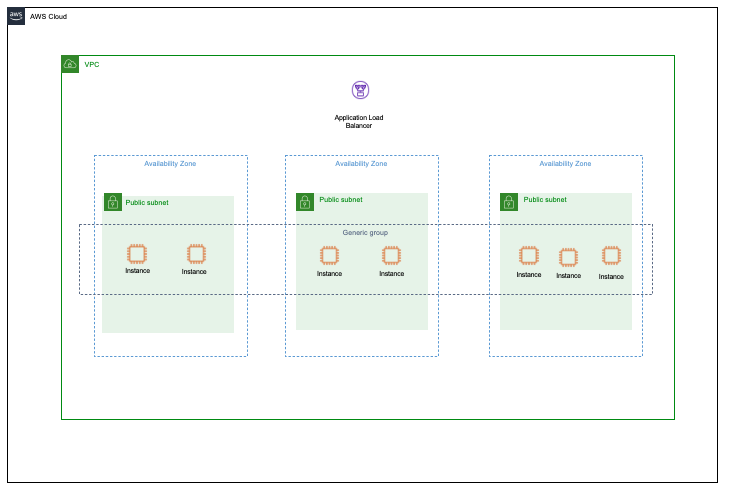
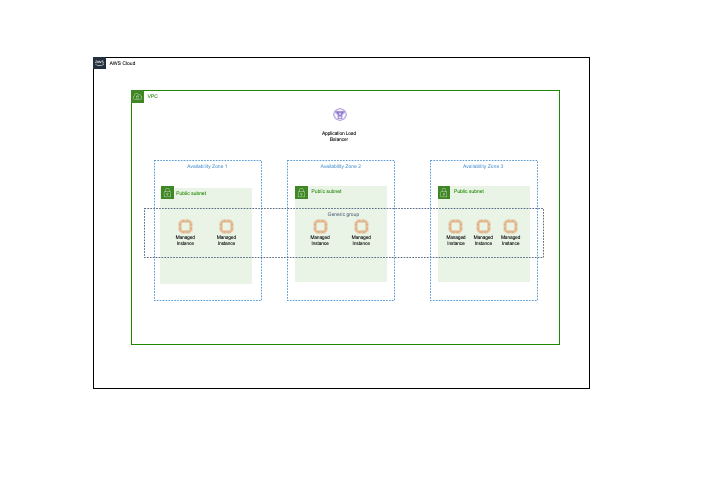
Edited architecture diagram AZs and instance names

diff --git a/index.html b/index.html
@@ -4,9 +4,9 @@
 <meta charset="UTF-8">
 <meta http-equiv="X-UA-Compatible" content="IE=edge">
 <meta name="viewport" content="width=device-width, initial-scale=1.0">
-<meta name="generator" content="Asciidoctor 2.0.17">
+<meta name="generator" content="Asciidoctor 2.0.18">
 <meta name="description" content="Spot by Netapp Elastigroup Deployment Guide on AWS">
-<meta name="keywords" content="Quick Start, AWS, Spot by Netapp Elastigroup">
+<meta name="keywords" content="Partner Solution, AWS, Spot by Netapp Elastigroup">
 <title>Spot by Netapp Elastigroup on AWS</title>
 <style>
 /* Asciidoctor default stylesheet | MIT License | https://asciidoctor.org */
@@ -872,7 +872,7 @@ p.footer-text a{color:#d7d8d8}
 <div id="preamble">
 <div class="sectionbody">
 <h2 id="_spot_by_netapp_elastigroup_on_aws" class="discrete text-center">Spot by Netapp Elastigroup on AWS</h2>
-<h2 id="_quick_start_deployment_guide" class="discrete text-left text-center">Quick Start Deployment Guide</h2>
+<h2 id="_partner_solution_deployment_guide" class="discrete text-left text-center">Partner Solution Deployment Guide</h2>
 <div class="imageblock text-center">
 <div class="content">
 <img src="https://aws-quickstart.s3.amazonaws.com/docs/deployment-guide/aws-quickstart-deployment-graphic.png" alt="QS" width="80" height="80">
@@ -895,13 +895,13 @@ p.footer-text a{color:#d7d8d8}
 <i class="fa icon-tip" title="Tip"></i>
 </td>
 <td class="content">
-Refer to the <a href="https://github.com/aws-quickstart/quickstart-netapp-spot-elastigroup" target="_blank" rel="noopener">GitHub repository</a> to view source files, report bugs, submit feature ideas, and post feedback about this Quick Start. To comment on the documentation, refer to <a href="#_feedback">Feedback</a>.
+Refer to the <a href="https://github.com/aws-quickstart/quickstart-netapp-spot-elastigroup" target="_blank" rel="noopener">GitHub repository</a> to view source files, report bugs, submit feature ideas, and post feedback about this Partner Solution. To comment on the documentation, refer to <a href="#_feedback">Feedback</a>.
 </td>
 </tr>
 </table>
 </div>
 <div class="paragraph text-left">
-<p>This Quick Start was created by Spot by Netapp in collaboration with Amazon Web Services (AWS). <a href="http://aws.amazon.com/quickstart/" target="_blank" rel="noopener">Quick Starts</a> are automated reference deployments that help people deploy popular technologies on AWS according to AWS best practices. If you&#8217;re unfamiliar with AWS Quick Starts, refer to the <a href="https://fwd.aws/rA69w?" target="_blank" rel="noopener">AWS Quick Start General Information Guide</a>.</p>
+<p>This Partner Solution was created by Spot by Netapp in collaboration with Amazon Web Services (AWS). <a href="https://aws.amazon.com/solutions/partners/" target="_blank" rel="noopener">Partner Solutions</a> are automated reference deployments that help people deploy popular technologies on AWS according to AWS best practices. If you&#8217;re unfamiliar with AWS Partner Solutions, refer to the <a href="https://fwd.aws/rA69w?" target="_blank" rel="noopener">AWS Partner Solution General Information Guide</a>.</p>
 </div>
 </div>
 </div>
@@ -933,7 +933,7 @@ AWS Cloud.</p>
 </div>
 <div id="architecture1" class="imageblock">
 <div class="content">
-<img src="docs/deployment_guide/images/elastigroup-quickstart-architecture-diagram.png" alt="Architecture">
+<img src="docs/deployment_guide/images/architecture_diagram.png" alt="Architecture">
 </div>
 <div class="title">Figure 1. Quick Start architecture for Spot Elastigroup on AWS</div>
 </div>
@@ -949,15 +949,14 @@ AWS Cloud.</p>
 <p>A highly available architecture that spans three Availability Zones.*</p>
 </li>
 <li>
-<p>A virtual private cloud (VPC) configured with public and private subnets, according to AWS
+<p>A virtual private cloud (VPC) configured with public subnets, according to AWS
 best practices, to provide you with your own virtual network on AWS.*</p>
-<div class="ulist">
-<ul>
-<li>
-<p>Spot Elastigroup with Intelligent Traffic Flow and Predictive Autoscaling features enabled</p>
 </li>
-</ul>
-</div>
+<li>
+<p>EC2 Instances that provide the Spot Elastigroup with Intelligent Traffic Flow and Predictive Autoscaling features enabled.</p>
+</li>
+<li>
+<p>Application Load Balancer that routes traffic based on the information from the Elastigroup Intelligent Traffic</p>
 </li>
 </ul>
 </div>
@@ -1007,7 +1006,7 @@ If you want to access your instances using SSH as well as AWS Systems Manager, y
 <div class="olist arabic">
 <ol class="arabic">
 <li>
-<p>Sign in to your AWS account, and launch this Quick Start, as described under <a href="#_deployment_options">Deployment options</a>. The AWS CloudFormation console opens with a prepopulated template. Deployment takes about 10 minutes to complete.</p>
+<p>Sign in to your AWS account, and launch this Partner Solution, as described under <a href="#_deployment_options">Deployment options</a>. The AWS CloudFormation console opens with a prepopulated template.</p>
 </li>
 <li>
 <p>Choose the correct AWS Region, and then choose <strong>Next</strong>.</p>
@@ -1024,7 +1023,7 @@ If you want to access your instances using SSH as well as AWS Systems Manager, y
 <i class="fa icon-note" title="Note"></i>
 </td>
 <td class="content">
-Unless you are customizing the Quick Start templates for your own projects, don&#8217;t change the default settings for the following Amazon Simple Storage Service (Amazon S3) parameters: <strong>Quick Start S3 bucket name</strong>, <strong>Quick Start S3 bucket Region</strong>, and <strong>Quick Start S3 key prefix</strong>. Changing these settings automatically updates code references to point to a new Quick Start location. For more information, refer to the <a href="https://fwd.aws/NwqYA?" target="_blank" rel="noopener">AWS Quick Start Contributor&#8217;s Guide</a>.
+Unless you are customizing the Partner Solution templates for your own projects, don&#8217;t change the default settings for the following Amazon Simple Storage Service (Amazon S3) parameters: <strong>Partner Solution S3 bucket name</strong>, <strong>Partner Solution S3 bucket Region</strong>, and <strong>Partner Solution S3 key prefix</strong>. Changing these settings automatically updates code references to point to a new Partner Solution location. For more information, refer to the <a href="https://fwd.aws/NwqYA?" target="_blank" rel="noopener">AWS Partner Solution Contributor&#8217;s Guide</a>.
 </td>
 </tr>
 </table>
@@ -1037,7 +1036,7 @@ Unless you are customizing the Quick Start templates for your own projects, don&
 <p>On the <strong>Review</strong> page, review and confirm the template settings. Under <strong>Capabilities</strong>, select all of the check boxes to acknowledge that the template creates AWS Identity and Access Management (IAM)  resources that might require the ability to automatically expand macros.</p>
 </li>
 <li>
-<p>Choose <strong>Create stack</strong> to deploy the stack.</p>
+<p>Choose <strong>Create stack</strong>. The stack takes about 10 minutes to deploy.</p>
 </li>
 <li>
 <p>Monitor the stack&#8217;s status, and when the status is <strong>CREATE_COMPLETE</strong>, the Spot by Netapp Elastigroup deployment is ready.</p>
@@ -1088,7 +1087,7 @@ Unless you are customizing the Quick Start templates for your own projects, don&
 <h2 id="_customer_responsibility">Customer responsibility</h2>
 <div class="sectionbody">
 <div class="paragraph">
-<p>After you deploy a Quick Start, confirm that your resources and services are updated and configured—including any required patches—to meet your security and other needs. For more information, refer to the <a href="https://aws.amazon.com/compliance/shared-responsibility-model/" target="_blank" rel="noopener">Shared Responsibility Model</a>.</p>
+<p>After you deploy a Partner Solution, confirm that your resources and services are updated and configured—including any required patches—to meet your security and other needs. For more information, refer to the <a href="https://aws.amazon.com/compliance/shared-responsibility-model/" target="_blank" rel="noopener">Shared Responsibility Model</a>.</p>
 </div>
 </div>
 </div>
@@ -1096,7 +1095,7 @@ Unless you are customizing the Quick Start templates for your own projects, don&
 <h2 id="_feedback">Feedback</h2>
 <div class="sectionbody">
 <div class="paragraph">
-<p>To submit feature ideas and report bugs, use the <strong>Issues</strong> section of the <a href="https://github.com/aws-quickstart/quickstart-netapp-spot-elastigroup" target="_blank" rel="noopener">GitHub repository</a> for this Quick Start. To submit code, refer to the <a href="https://fwd.aws/NwqYA?" target="_blank" rel="noopener">Quick Start Contributor&#8217;s Guide</a>. To submit feedback on this deployment guide, use the following GitHub links:</p>
+<p>To submit feature ideas and report bugs, use the <strong>Issues</strong> section of the <a href="https://github.com/aws-quickstart/quickstart-netapp-spot-elastigroup" target="_blank" rel="noopener">GitHub repository</a> for this Partner Solution. To submit code, refer to the <a href="https://fwd.aws/NwqYA?" target="_blank" rel="noopener">Partner Solution Contributor&#8217;s Guide</a>. To submit feedback on this deployment guide, use the following GitHub links:</p>
 </div>
 <div class="ulist">
 <ul>
@@ -1123,7 +1122,7 @@ Unless you are customizing the Quick Start templates for your own projects, don&
 <p>This document is provided for informational purposes only. It represents current AWS product offerings and practices as of the date of issue of this document, which are subject to change without notice. Customers are responsible for making their own independent assessment of the information in this document and any use of AWS products or services, each of which is provided "as is" without warranty of any kind, whether expressed or implied. This document does not create any warranties, representations, contractual commitments, conditions, or assurances from AWS, its affiliates, suppliers, or licensors. The responsibilities and liabilities of AWS to its customers are controlled by AWS agreements, and this document is not part of, nor does it modify, any agreement between AWS and its customers.</p>
 </div>
 <div class="paragraph">
-<p>The software included with this paper is licensed under the Apache License, version 2.0 (the "License"). You may not use this file except in compliance with the License. A copy of the License is located at <a href="http://aws.amazon.com/apache2.0/" target="_blank" rel="noopener">http://aws.amazon.com/apache2.0/</a> or in the accompanying "license" file. This code is distributed on an "as is" basis, without warranties or conditions of any kind, either expressed or implied. Refer to the License for specific language governing permissions and limitations.</p>
+<p>The software included with this paper is licensed under the Apache License, version 2.0 (the "License"). You may not use this file except in compliance with the License. A copy of the License is located at <a href="https://aws.amazon.com/apache2.0/" target="_blank" rel="noopener">https://aws.amazon.com/apache2.0/</a> or in the accompanying "license" file. This code is distributed on an "as is" basis, without warranties or conditions of any kind, either expressed or implied. Refer to the License for specific language governing permissions and limitations.</p>
 </div>
 </div>
 </div>
@@ -1131,7 +1130,7 @@ Unless you are customizing the Quick Start templates for your own projects, don&
 <footer>
     <p class="footer-text">
         <!-- We can use document attributes: -->
-        <!-- Generated with Asciidoctor v2.0.17. -->
+        <!-- Generated with Asciidoctor v2.0.18. -->
         <a href="https://aws.amazon.com/privacy/">Privacy</a> | <a href="https://aws.amazon.com/terms/">Site terms</a> |
         &copy; {current-year}, Amazon Web Services, Inc. or its affiliates and Spot by Netapp. All rights reserved.
     </p>
